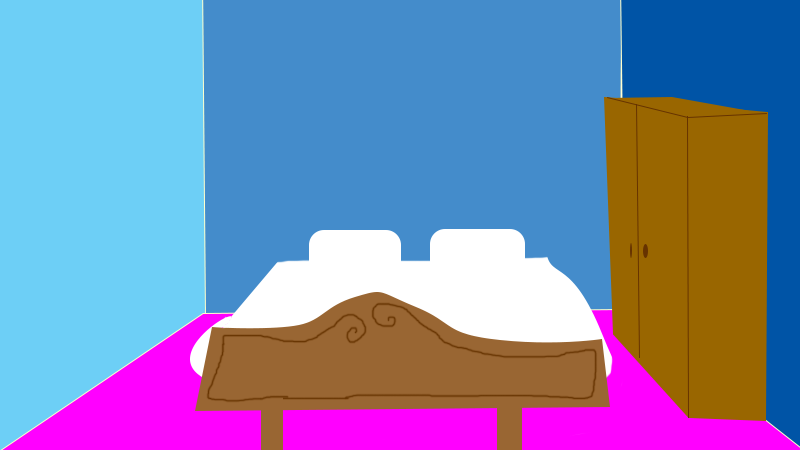
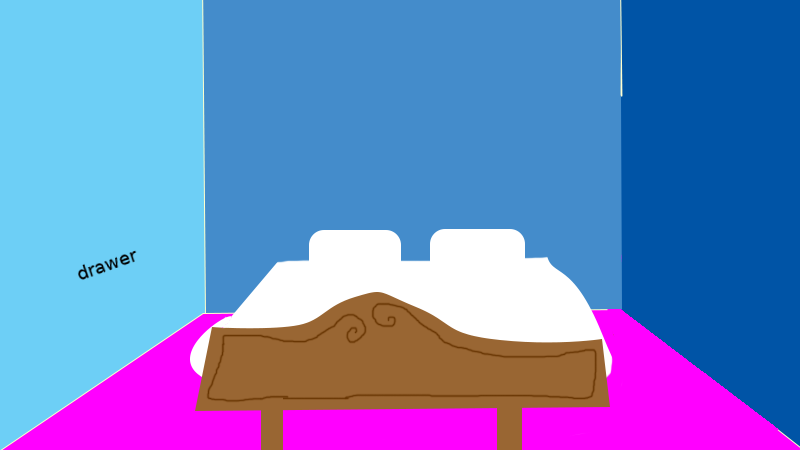
..

Changed region(s): [[0.75, 0.2178, 0.9688, 0.9644], [0.0938, 0.56, 0.1875, 0.6222]]

diff --git a/js/rooms.js b/js/rooms.js
@@ -181,7 +181,14 @@
 				"actions": ["take", "drop"],
 				"x": 10,
 				"y": 170
-			}
+			},
+            "wardrobe": {
+                "autoload": "close",
+                "available": true,
+                "actions": ["open", "close"],
+                "x": 400,
+                "y": 500
+            }
 		},
 		"rooms": [
 			"doorway",

diff --git a/index.html b/index.html
@@ -1,5 +1,7 @@
 <html>
     <head>
+        <meta content="text/html;charset=utf-8" http-equiv="Content-Type">
+        <meta content="utf-8" http-equiv="encoding">
         <title>Induced Insomnia</title>
         <link rel="stylesheet" type="text/css" href="css/main.css">
     </head>

diff --git a/js/main.js b/js/main.js
@@ -117,6 +117,6 @@ function handle_keypress(e) {
 function init() {
     body = $("body");
     rooms_init(game);
-    room_enter("office");
+    room_enter("wardrobe");
     room_update();
 }
